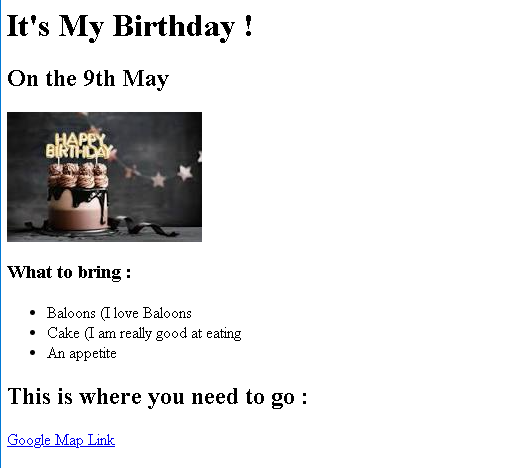
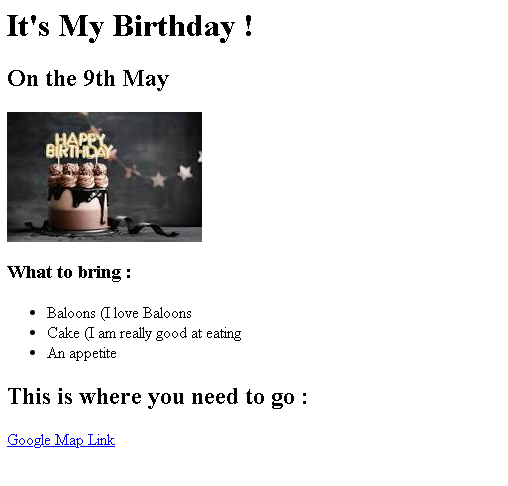
Add files via upload

diff --git a/public/birthday-invite.html b/public/birthday-invite.html
@@ -1,18 +1,17 @@
-<!-- This is one possible solution -->
-<h1>It's My Birthday!</h1>
-<h2>On the 12th May</h2>
 
-<img src="https://raw.githubusercontent.com/appbrewery/webdev/main/birthday-cake3.4.jpeg"
-  alt="purple birthday cake with candles" />
+<h1> It's My Birthday !</h1>
 
-<h3>What to bring:</h3>
+<h2>On the 9th May</h2>
+
+<img src="https://encrypted-tbn0.gstatic.com/images?q=tbn:ANd9GcRak-jXXmz9bDLuTgxdjR6mEN59YQ5w4W0x3HwYyFEu8g&s/400"/>
+
+<h3>What to bring :</h3>
+
 <ul>
-  <li>Baloons (I love baloons)</li>
-  <li>Cake (I'm really good at eating)</li>
-  <li>An appetite (There will be lots of food)</li>
+    <li>Baloons (I love Baloons</li>
+    <li>Cake (I am really good at eating</li>
+    <li>An appetite</li>
 </ul>
 
-<h3>This is where you need to go:</h3>
-<a
-  href="https://www.google.com/maps/@35.7040744,139.5577317,3a,75y,289.6h,87.01t,0.72r/data=!3m6!1e1!3m4!1sgT28ssf0BB2LxZ63JNcL1w!2e0!7i13312!8i6656">Google
-  map link</a>
+<h2>This is where you need to go :</h2>
+<a href="https://www.google.com/maps/@35.7040744,139.5577317,3a,75y,289.6h,87.01t,0.72r/data=!3m6!1e1!3m4!1sgT28ssf0BB2LxZ63JNcL1w!2e0!7i13312!8i6656">Google Map Link</a>

diff --git a/index.html b/index.html
@@ -1,3 +1,23 @@
+<!DOCTYPE html>
+<html lang="en">
+    <head>
+        <meta charset="UTF-8">
+        <title>Web developer</title>
+    </head>
+    <hr/>
+    <body>
+        <h1>Alok's Portfolio</h1>
+        <h2>I am a web Developer</h2>
+    <h3><a href="./public/movie-ranking.html">Movie Ranking Project</a></h3>
+    <img src="./assets/images/movie.png" height="200"/>
+    <hr/>
+
+    <h3><a href="./public/birthday-invite.html">Birthday Invite Project</a></h3>
+    <img src="./assets/images/birthday.png" height="200"/>
+<hr/>
+    <h3><a href="./public/about.html">About Me</a> <a href="./public/contact.html">Contact Me</a></h3>
+        </body>
+    </html>
 <!-- TODO 1: Create the HTML Boilerplate -->
 
 <!-- TODO 2: Add Your previous projects' HTML into the public folder -->

diff --git a/public/movie-ranking.html b/public/movie-ranking.html
@@ -1,9 +1,10 @@
-<h1>The Best Movies According to Angela</h1>
-<h2>My top 3 movies of all-time.</h2>
-<hr />
-<h3>Spirited Away</h3>
-<p>This is my favourite anime. I love the beautiful images.</p>
-<h3>Ex Machina</h3>
-<p>Really cool sci-fi movie.</p>
-<h3>Drive</h3>
-<p>Super beautiful film. Really artistic.</p>
+<h1>The best movies according to Alok</h1>
+
+<h2>My top 3 movies of all time</h2>
+<hr/>
+<h3>3 idiots</h3>
+<p>I love the comedy</p>
+<h3>Swadesh</h3>
+<p>I love the message</p>
+<h3>Lion</h3>
+<p>Love the story</p>
